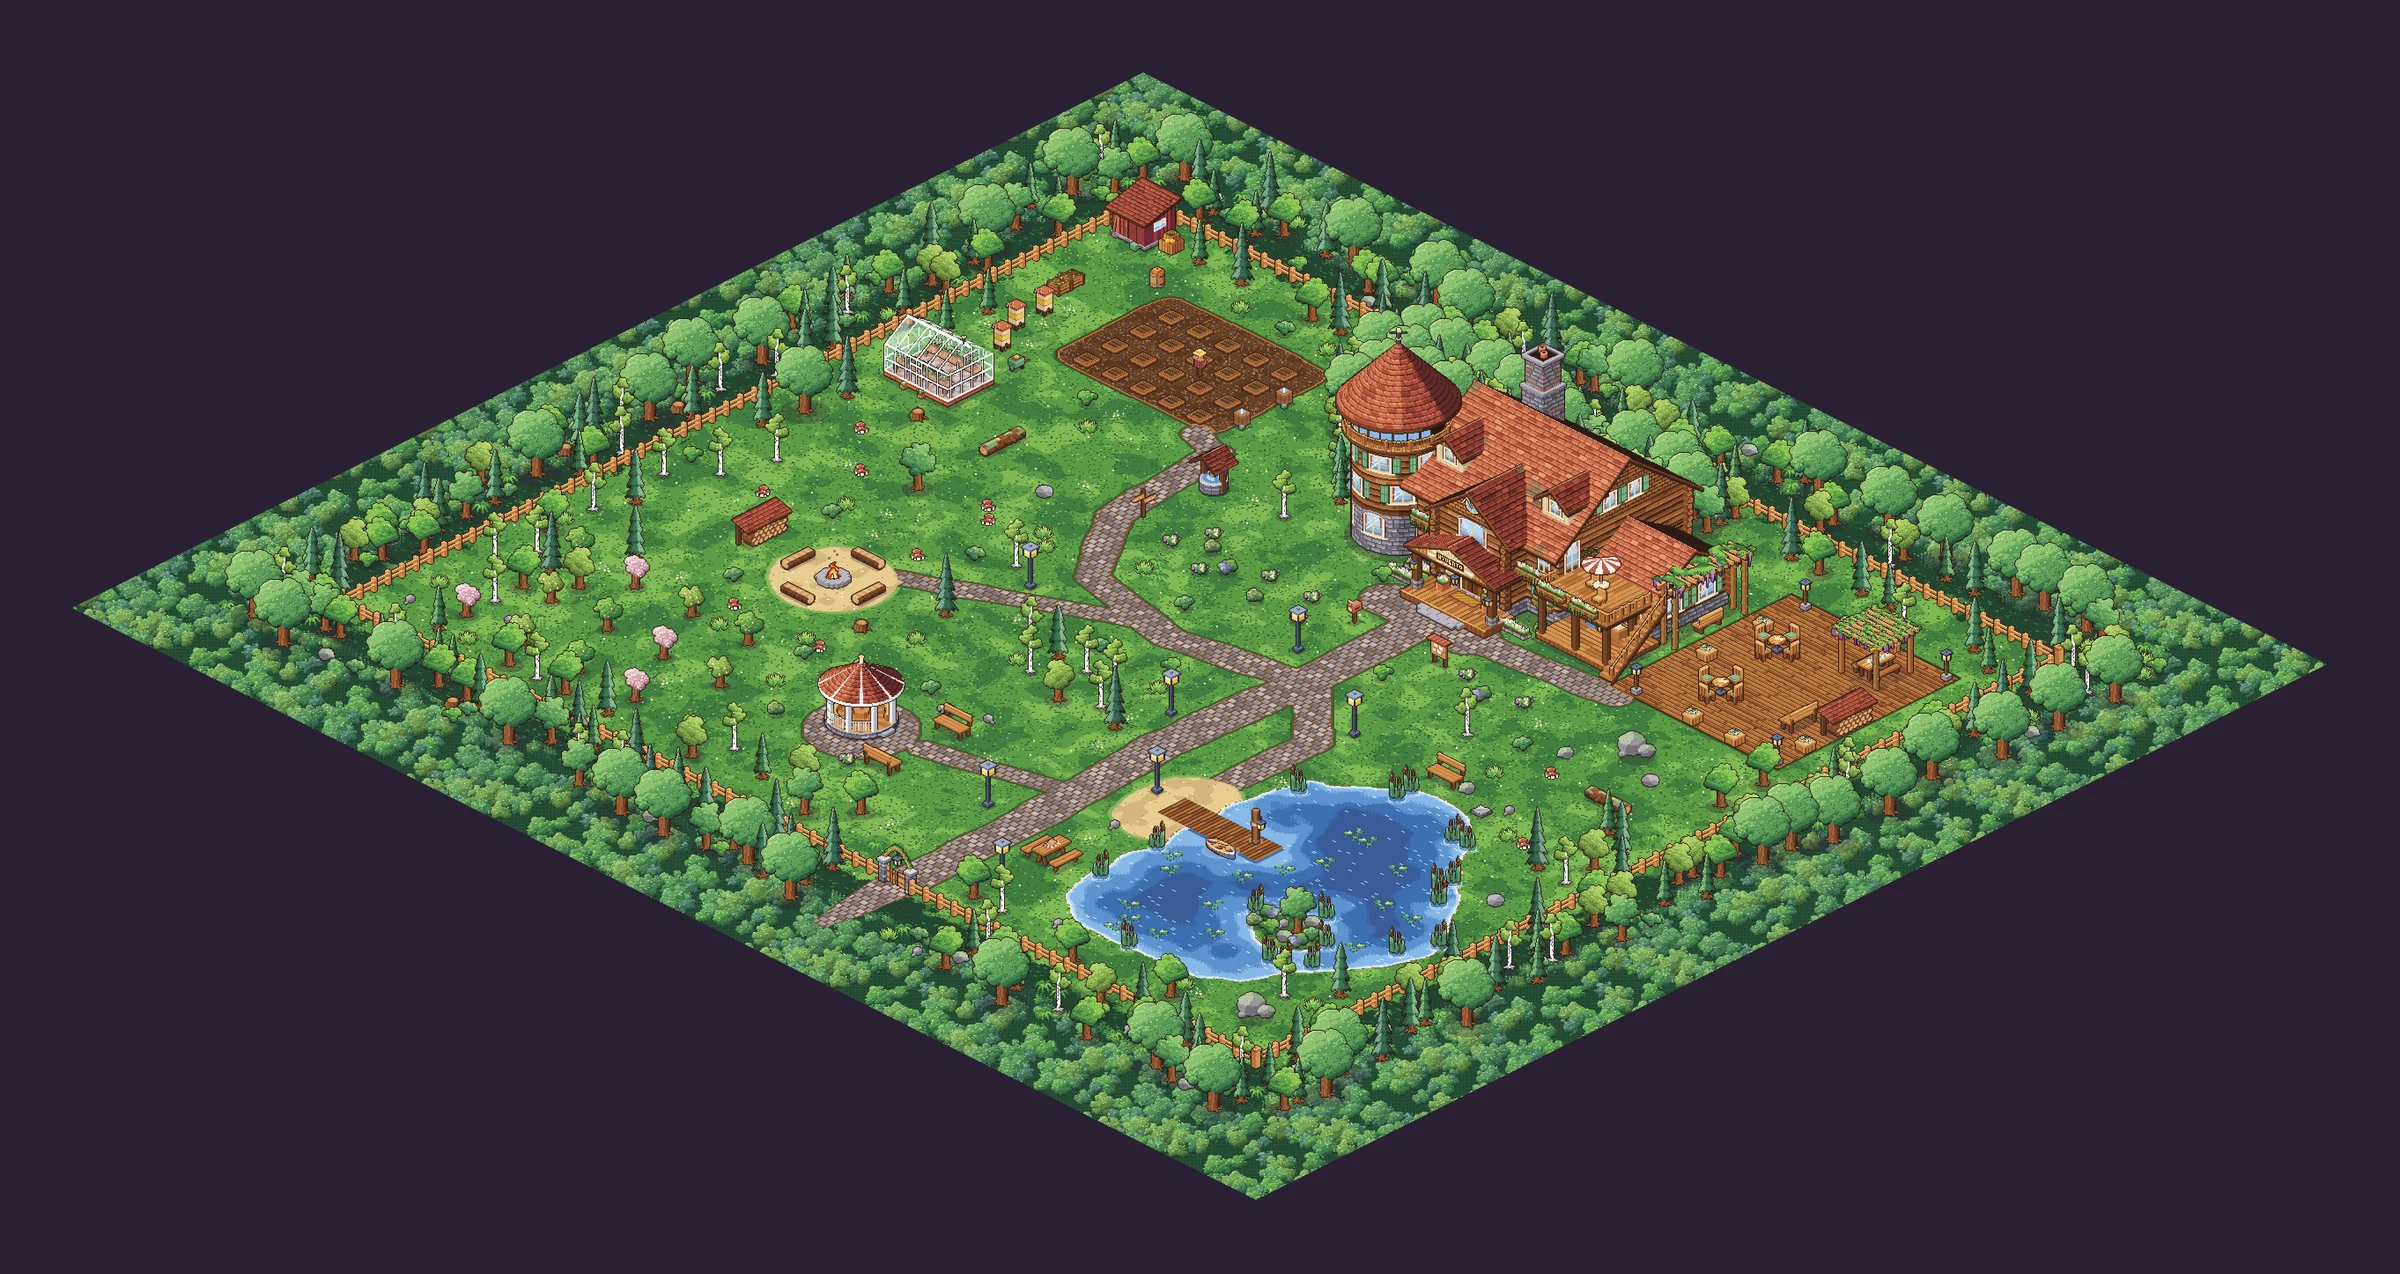
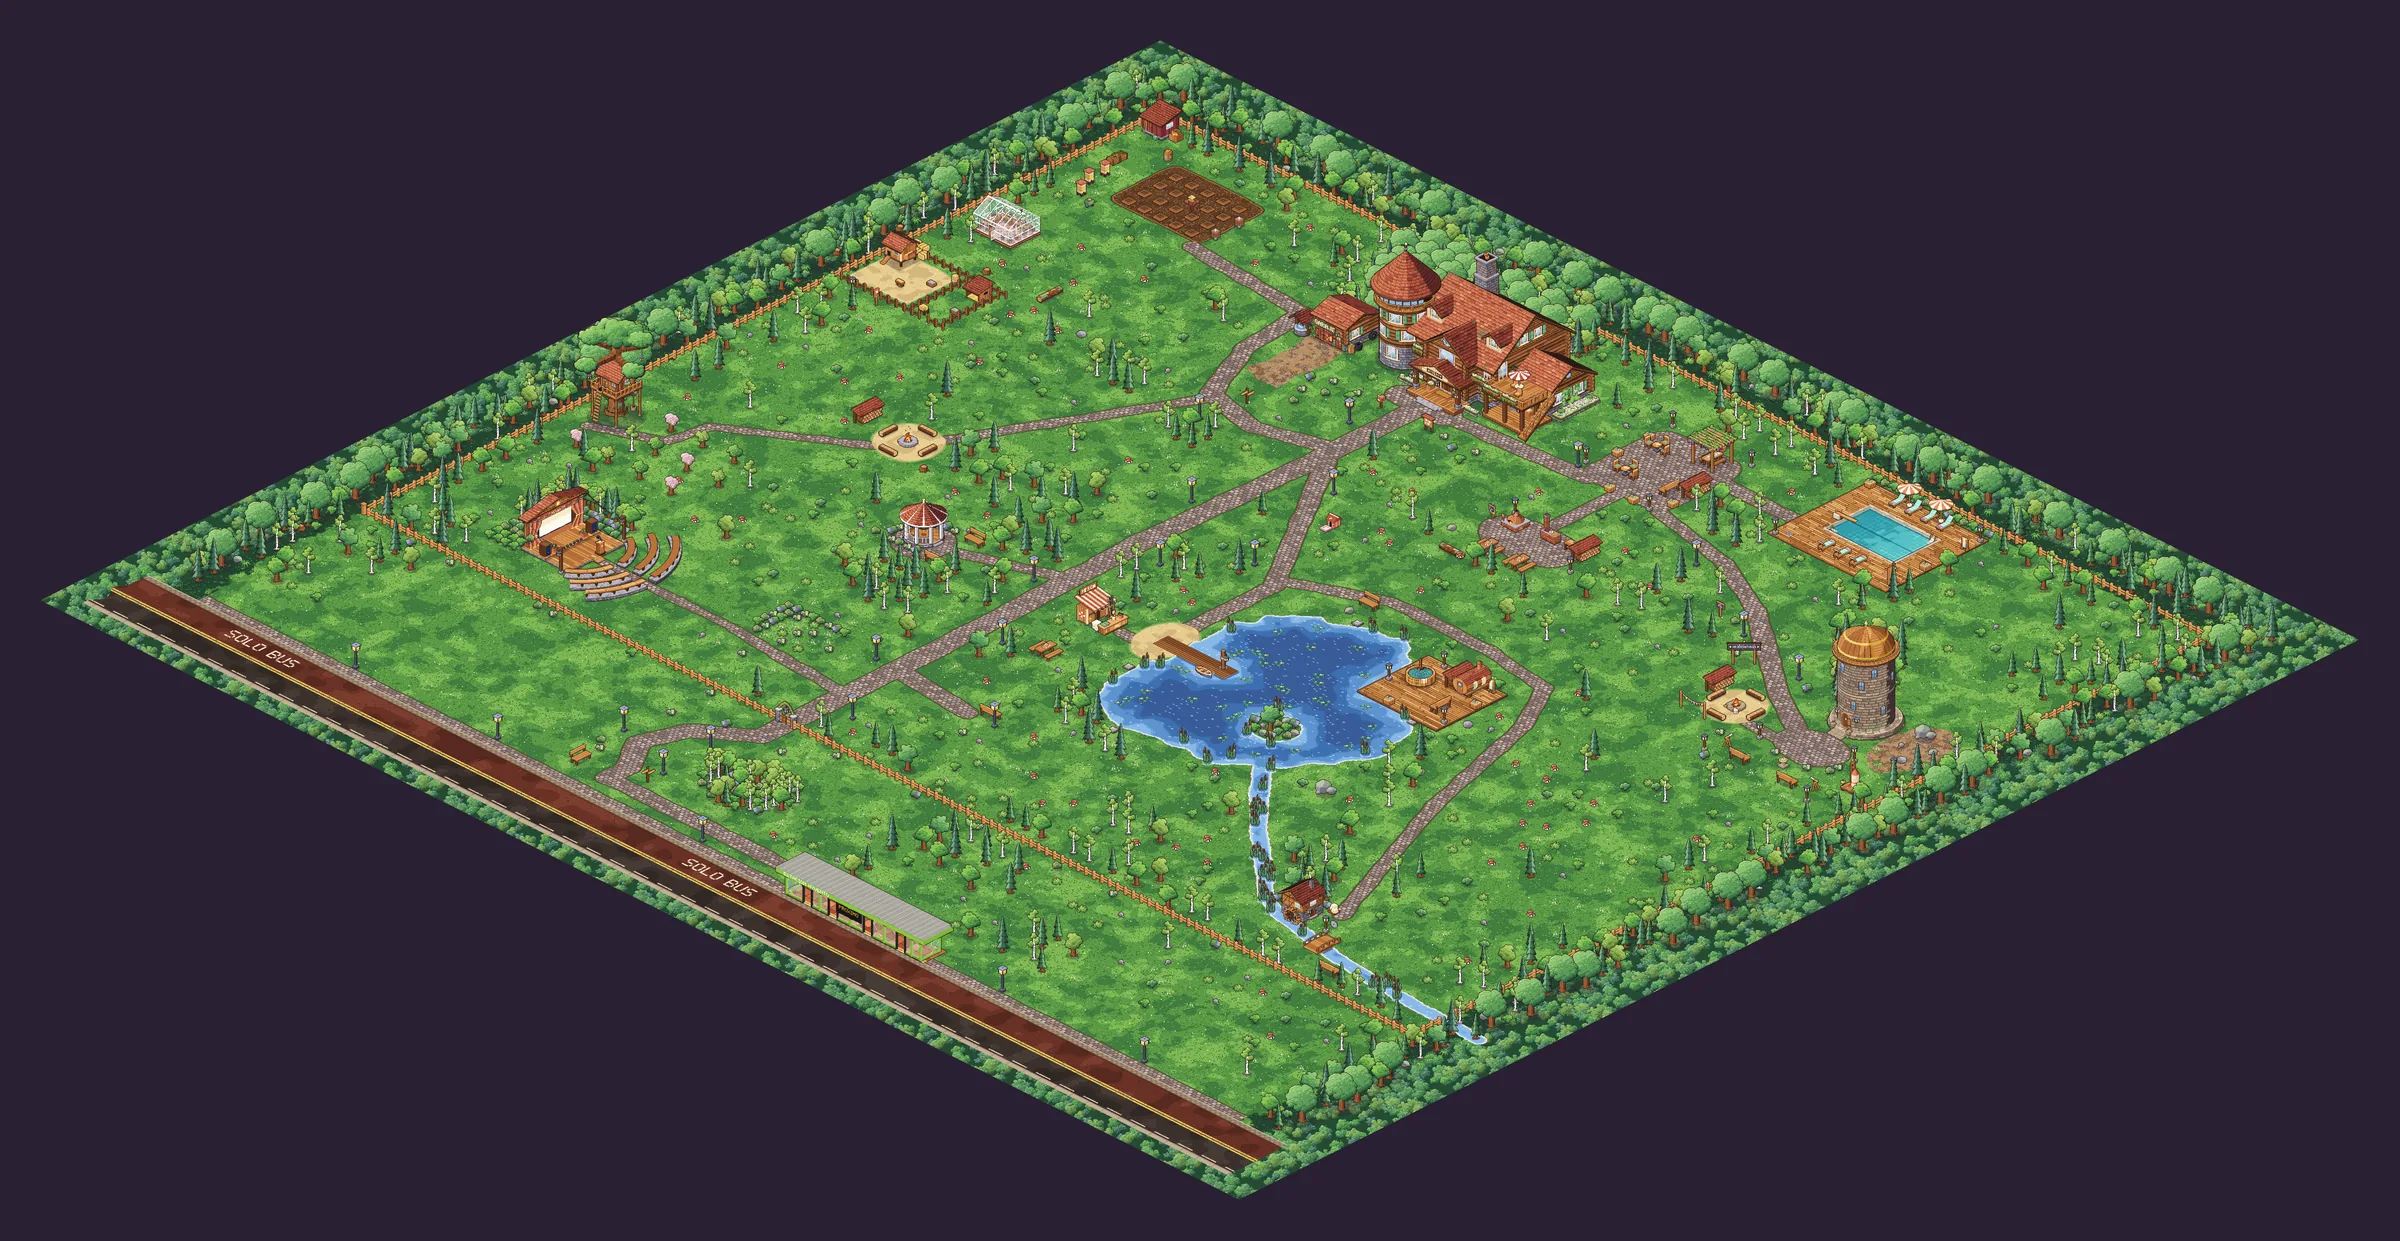
docs: README con propósito, stack al día y niveles nuevos
Suma la sección Propósito, amplía la tabla de contenido y el stack con las
versiones actuales, y refresca las imágenes de niveles (jardín de día y noche,
piso 3, sótano, garaje, casa del árbol, Megabús, observatorio y estudio).

diff --git a/README.md b/README.md
@@ -10,11 +10,13 @@ Oficina virtual isométrica en pixel-art para equipos remotos: caminas por una c
 [![Phaser](https://img.shields.io/badge/Phaser-3.90-8b5cf6?style=for-the-badge)](https://phaser.io/)
 [![Colyseus](https://img.shields.io/badge/Colyseus-0.16-f4b93c?style=for-the-badge&logoColor=111)](https://colyseus.io/)
 [![LiveKit](https://img.shields.io/badge/LiveKit-WebRTC-000?style=for-the-badge&logo=webrtc)](https://livekit.io/)
+[![Tailwind](https://img.shields.io/badge/Tailwind-4-38bdf8?style=for-the-badge&logo=tailwindcss&logoColor=white)](https://tailwindcss.com/)
 [![Prisma](https://img.shields.io/badge/Prisma-Postgres-2d3748?style=for-the-badge&logo=prisma&logoColor=white)](https://www.prisma.io/)
+[![Node](https://img.shields.io/badge/Node-22-5fa04e?style=for-the-badge&logo=nodedotjs&logoColor=white)](https://nodejs.org/)
 
 <br />
 
-[Recorrido](#recorrido) · [Stack](#stack) · [Funcionamiento](#funcionamiento) · [Desarrollo](#desarrollo-local) · [Deploy](#deploy)
+[Propósito](#propósito) · [Recorrido](#recorrido) · [Stack](#stack) · [Funcionamiento](#funcionamiento) · [Desarrollo](#desarrollo-local) · [Deploy](#deploy)
 
 </div>
 
@@ -23,6 +25,17 @@ Oficina virtual isométrica en pixel-art para equipos remotos: caminas por una c
 ![Lumbre: un personaje caminando por el jardín de noche](docs/img/lumbre-caminando.gif)
 
 Lumbre convierte la oficina remota en un lugar al que se entra. Cada persona tiene un chibi personalizable, una oficina propia que decora con muebles comprados con puntos y un PC con su propio sistema operativo. La voz y el video funcionan **por proximidad**: si te acercas a alguien, lo escuchas; si entras a una sala, solo te escucha quien está adentro. Todo es multijugador en tiempo real con un servidor autoritativo, y **todo el arte se genera por código**: no hay un solo PNG dibujado a mano en el repo.
+
+## Propósito
+
+Las videollamadas de agenda no se parecen a trabajar juntos: para hablar con alguien hay que citarlo, y la conversación de pasillo, la que resuelve dudas y crea equipo, desaparece. Lumbre existe para devolverla a los equipos remotos:
+
+- **Presencia, no reuniones.** Ves quién está, dónde y qué hace; te acercas y hablas, sin agendar nada.
+- **Un lugar propio.** Oficina, personaje y decoración hacen que el equipo tenga un sitio con identidad, no una lista de contactos.
+- **Vida más allá del trabajo.** Cafetería, casino, club, piscina, huerto, pesca o un pomodoro en la casa del árbol dan motivos para pasar por ahí y conocerse.
+- **Gratis de operar.** Cabe en planes gratuitos y no depende de APIs de IA de pago.
+
+Hoy es la cabaña del equipo de [Hyvento](https://hyvento.co); la idea de abrirla a cualquier equipo está en [`docs/plan-equipos.md`](docs/plan-equipos.md).
 
 ## Recorrido
 
@@ -41,11 +54,37 @@ Lumbre convierte la oficina remota en un lugar al que se entra. Cada persona tie
 <summary><b>Los niveles completos, dibujados por el motor pixel</b></summary>
 <br />
 
-![Jardín](docs/img/jardin.webp)
+**Jardín**, de día y de noche: casa, escenario, piscina, granja, lago con tina y sauna, observatorio, casa del árbol y la parada del Megabús.
+
+![Jardín de día](docs/img/jardin.webp)
+![Jardín de noche](docs/img/jardin-noche.webp)
+
+**Planta baja, piso 2 y piso 3**
+
 ![Planta baja](docs/img/planta-baja.webp)
 ![Piso 2](docs/img/piso-2.webp)
+![Piso 3](docs/img/piso-3.webp)
 
-Cada imagen sale de `pnpm --filter @hyvento/map render <nivel> salida.png`, sin abrir el juego.
+**Sótano** (casino, club y cine)
+
+![Sótano](docs/img/sotano.webp)
+
+**Niveles pequeños**
+
+<table>
+  <tr>
+    <td width="33%"><img src="docs/img/garaje.webp" alt="Garaje" /><br /><sub><b>Garaje</b>: taller y oficina extra.</sub></td>
+    <td width="33%"><img src="docs/img/casa-arbol.webp" alt="Casa del árbol" /><br /><sub><b>Casa del árbol</b>: cupo de 3 y pomodoro compartido.</sub></td>
+    <td width="33%"><img src="docs/img/megabus.webp" alt="Megabús" /><br /><sub><b>Megabús</b>: por dentro, con viaje de 30 s.</sub></td>
+  </tr>
+  <tr>
+    <td width="33%"><img src="docs/img/observatorio.webp" alt="Observatorio" /><br /><sub><b>Observatorio</b>: telescopio, orrery y fogata de malvaviscos.</sub></td>
+    <td width="33%"><img src="docs/img/podcast.webp" alt="Estudio de grabación" /><br /><sub><b>Estudio</b>: se graba solo si todos aceptan.</sub></td>
+    <td width="33%"></td>
+  </tr>
+</table>
+
+Cada imagen sale de `pnpm --filter @hyvento/map render <nivel> salida.png [noche]`, sin abrir el juego.
 </details>
 
 ### Qué hay adentro
@@ -53,12 +92,17 @@ Cada imagen sale de `pnpm --filter @hyvento/map render <nivel> salida.png`, sin 
 | | |
 | --- | --- |
 | **Proximidad** | Chat y video por cercanía; las salas cerradas aíslan el audio. Suscripción selectiva en el SFU: solo recibes las pistas de quien tienes cerca. |
+| **Presencia** | Disponible, ocupado, no molestar y ausente (automático por inactividad); "En reunión" lo calcula el servidor. Mascotas que te siguen entre niveles y fotos con polaroid. |
 | **Oficinas** | Una por persona, con placa, estado, puerta que se cierra y toque de puerta. Decoración en vivo que sobrevive a un rediseño del plano. |
 | **Hyvento OS** | Un PC dentro del juego con escritorio, ventanas y apps: notas estilo Notion (TipTap), papelera y calendario. |
+| **Reuniones** | Escenario con anfiteatro (habla uno, oyen todos, mano levantada y ovación), estudio de grabación con consentimiento de todos y casa del árbol con pomodoro compartido. |
 | **Economía** | Puntos por presencia y reuniones, buzón con racha diaria, tablón de misiones y ranking semanal. Cada movimiento queda en un libro contable. |
-| **Tienda y vestidor** | Muebles con inventario y ropa gratis. El personaje se arma por piezas (rostro, pelo, ropa) y se dibuja en el navegador. |
-| **Sótano** | Casino, club y cine. Azar con `crypto.randomInt` y apuestas en transacciones que bloquean la fila del usuario. |
-| **Afuera** | Jardín con huerto, pesca con minijuego, fogata y un bosque infinito que se repite más allá del borde. |
+| **Tienda, vestidor y mochila** | Muebles con inventario, ropa gratis y una mochila estilo Stardew con barra de acceso rápido. El personaje se arma por piezas y se dibuja en el navegador. |
+| **Sótano** | Casino, club con propinas al tubo y cine. Azar con `crypto.randomInt` y apuestas en transacciones que bloquean la fila del usuario. |
+| **Afuera** | Jardín con huerto, granja (gallinero, molino y parrilla), piscina, tina caliente y sauna, pesca con minijuego y puesto de Don Evelio, observatorio, fogata y un bosque infinito que se repite más allá del borde. |
+| **Megabús** | Un bus con horario que pasa por la estación, con viaje, puertas y pantalla de recorrido; se puede llegar a la cabaña en él. |
+| **Mundo vivo** | Reloj del juego (1 día = 1 hora real), clima, estaciones, noche y NPC con frases colombianas. Logros, insignias y un diario de exploración. |
+| **Juegos** | Ajedrez y damas con reloj, arcade y minijuegos de mesa. |
 | **Editor de la casa** | Los admins mueven, giran, quitan y agregan muebles en cualquier nivel; se guarda como diferencia sobre el plano. |
 
 ## Stack
@@ -66,14 +110,17 @@ Cada imagen sale de `pnpm --filter @hyvento/map render <nivel> salida.png`, sin 
 | Capa | Tecnología | Uso |
 | --- | --- | --- |
 | Web | Next.js 15 App Router, React 19, TypeScript strict | Login, perfil, cabaña, `/admin` y API |
-| Juego | Phaser 3, proyección isométrica propia | Render de niveles, chibis, luces de noche e interacción |
+| Juego | Phaser 3.90, proyección isométrica propia | Render de niveles, chibis, luces, clima y estaciones |
 | UI | Tailwind CSS v4, zustand, Pixelify Sans | HUD "cozy" con sombras sólidas y esquinas rectas |
-| Multijugador | Colyseus 0.16 | Estado autoritativo: movimiento, paredes, asientos, portales, casino y cafetería |
-| Medios | LiveKit (WebRTC SFU) | Voz, video y pantalla compartida por proximidad, con permisos en el servidor |
+| Editor | TipTap 3 | Notas de Hyvento OS |
+| Multijugador | Colyseus 0.16 (`@colyseus/schema` 3) | Estado autoritativo: movimiento, paredes, asientos, portales, casino, bus, granja, escenario y más |
+| Medios | LiveKit (WebRTC SFU), cargado aparte del bundle | Voz, video y pantalla compartida por proximidad, con permisos en el servidor |
 | Mundo | `packages/map` | Niveles, catálogo de muebles, colisión, A* y el motor pixel |
-| Datos | Prisma + Postgres | Usuarios, notas, inventario, decoración y libro de puntos |
+| Contratos | `packages/shared`, Zod | Protocolo, reglas de proximidad, puntos, tienda y personajes: iguales en cliente y servidor |
+| Datos | Prisma 6 + Postgres (16 en local, Neon en producción) | Usuarios, notas, inventario, decoración y libro de puntos |
 | Auth | Supabase Auth (Google), solo por invitación; usuarios en Neon | Admins por correo e invitaciones desde `/admin` |
-| Calidad | Vitest, Turborepo, GitHub Actions | Typecheck y tests en cada PR |
+| Calidad | Vitest 3, Turborepo, GitHub Actions (Node 22, pnpm 10) | Typecheck y tests en cada PR |
+| Infra | Vercel, Render, Neon, LiveKit Cloud; Docker en local | Todo en planes gratis |
 
 ## Funcionamiento
 
@@ -129,12 +176,12 @@ pnpm --filter @hyvento/web build               # build de producción
 ```text
 apps/
   web/        Next.js + Phaser: escena, HUD, Hyvento OS, API y /admin
-  server/     Colyseus: sala, reglas, casino, cafetería y tests
+  server/     Colyseus: sala y reglas por sistema (bus, casino, granja, escenario…) y tests
 packages/
   map/        Mundo en código, colisión, A* y motor pixel (src/art)
   shared/     Protocolo (zod), Look del personaje, reglas de puntos, tienda y casino
   db/         Prisma, migraciones y libro de puntos
-docs/         Plan de la cabaña, rediseño y guía de despliegue
+docs/         Planes (cabaña, rediseño, estructuras, casas, equipos), despliegue e imágenes
 ```
 
 ## Deploy
@@ -155,6 +202,8 @@ Todo cabe en planes gratis: **Vercel** (web), **Render** (servidor de juego, `re
 
 - [Plan de la cabaña](docs/plan-cabana.md): salas y fases.
 - [Plan del rediseño](docs/plan-rediseno.md): el plano actual.
+- [Plan de estructuras](docs/plan-estructuras.md): las construcciones del jardín.
+- [La casa de cada persona](docs/plan-casas.md) y [Lumbre para cualquier equipo](docs/plan-equipos.md): ideas documentadas, aún sin desarrollar.
 - [Despliegue gratis](docs/despliegue.md).
 - [Onboarding](ONBOARDING.md) y [convenciones](CLAUDE.md).
 
